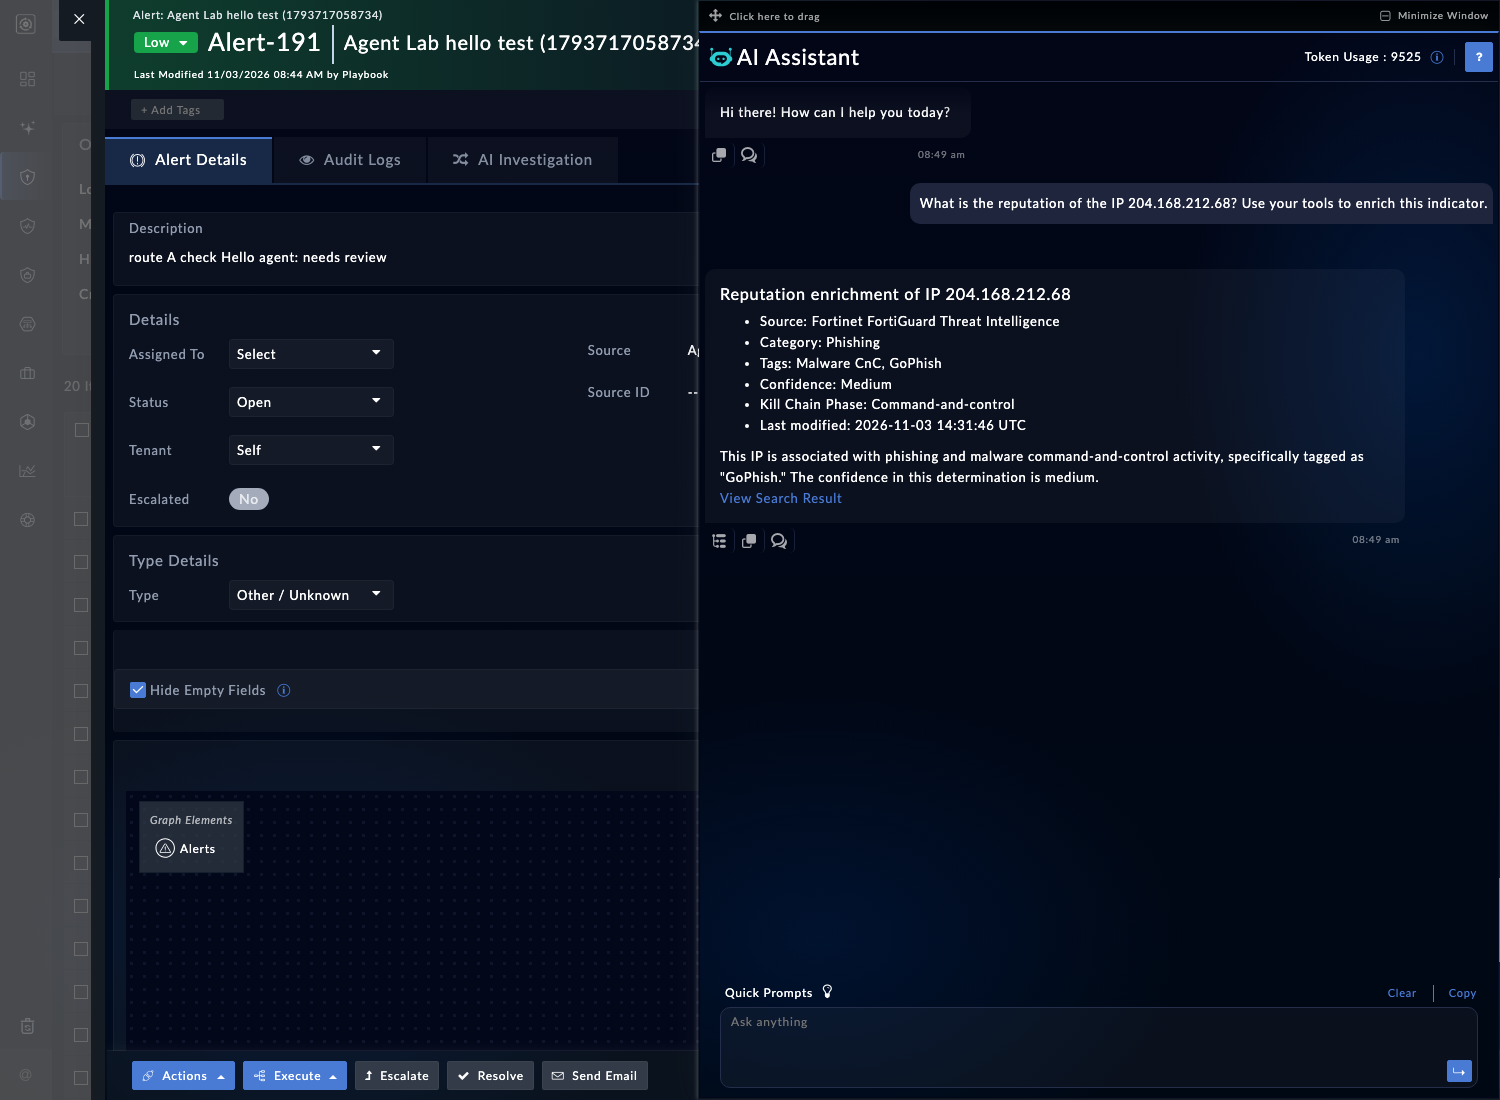
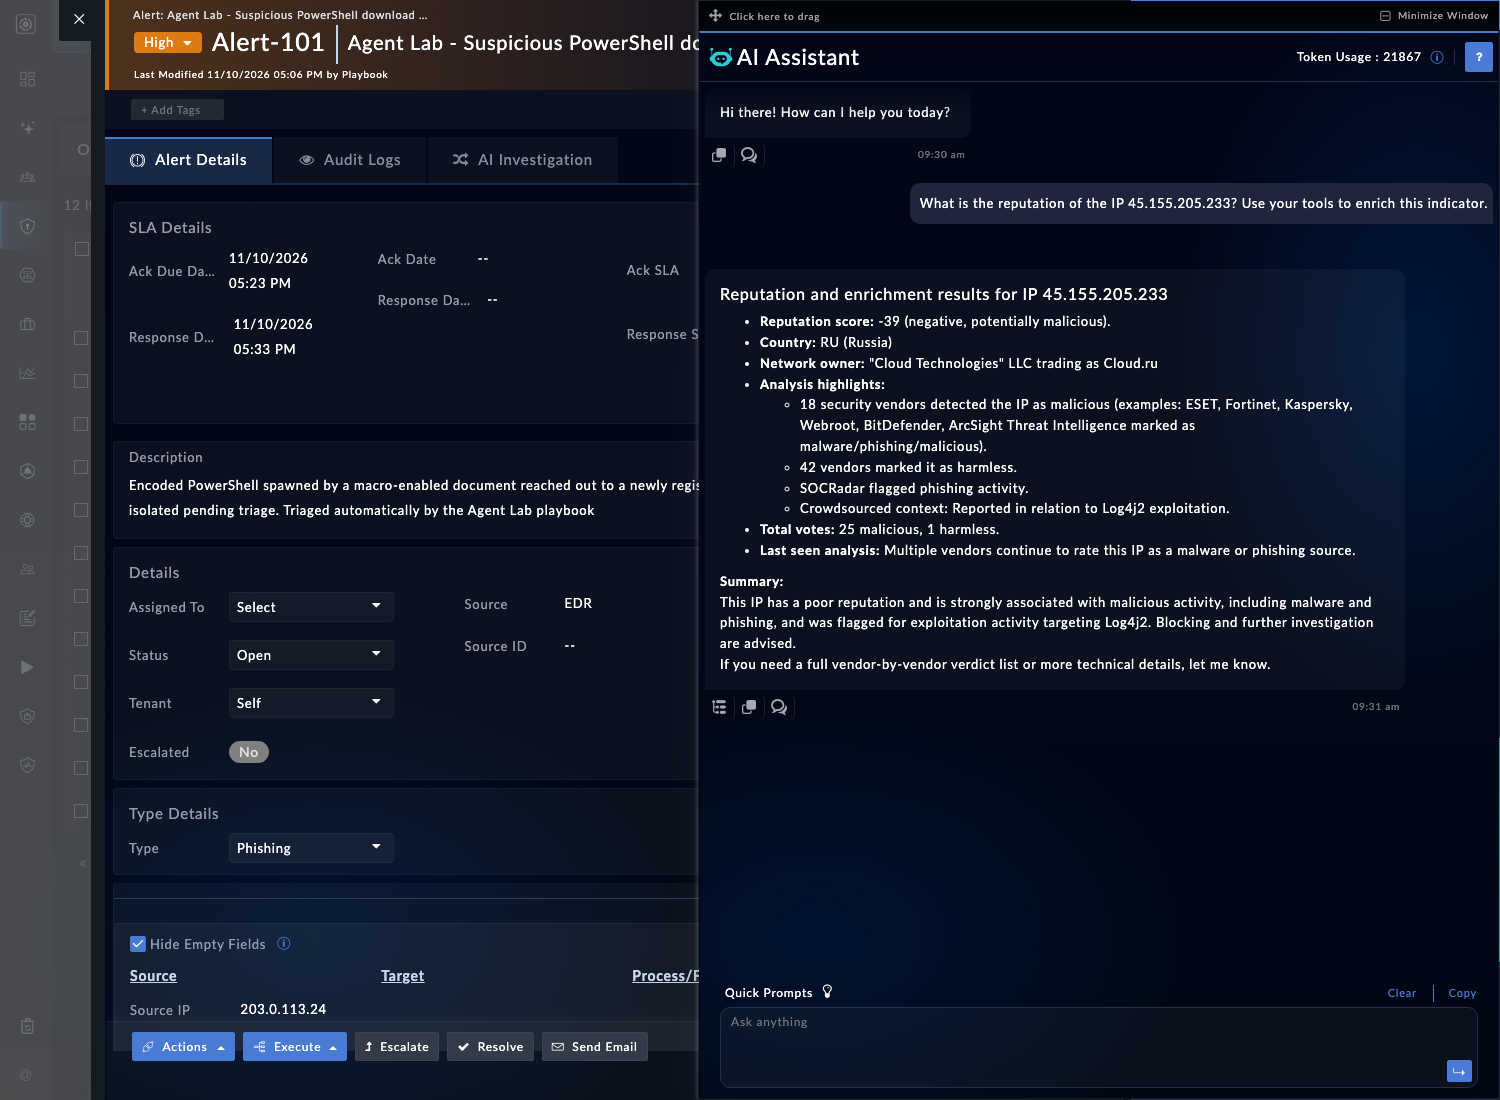
ch05: VirusTotal enrichment - page section, spec step, verified captures
The IP-enrichment source for the chat tool check is VirusTotal (free API
key the student creates), not FortiGuard:

- Page 02: a setup section before the chat check (create the free key,
  configure the connector in the Content Hub) with the fsa05-04b step and
  capture markers; wording switched from FortiGuard to VirusTotal.
- Spec: fsa05-04b-virustotal-config drives addConfiguration through the
  UI with the key from FSR_VT_API_KEY and health-checks it, then stays a
  read-only look once a configuration exists. The answer-shot allows the
  public reputation IP through the OCR gate (ocrAllow, not scrubSkip -
  the question bubble is the page's own example with <ip> filled in) and
  the answer regex names virustotal.

Verified live: connector config 'Lab' health-checks Available, the chat
turn calls enrich_indicator via SOC Framework and answers from
VirusTotal (malicious, score -39), and the tool-span check reads the
SOC Framework trace. The answer capture is the genuine VirusTotal
verdict, replacing the old FortiGuard capture.

diff --git a/docubot/05-register-mcp-servers/chapter.spec.ts b/docubot/05-register-mcp-servers/chapter.spec.ts
@@ -27,8 +27,8 @@
 //                          the enrich_indicator tool fired (spends FortiAI credits).
 //                          Uses the built-in SOC Framework server the chat already
 //                          has, so it does NOT need the DeepWiki grant. Point
-//                          REPUTATION_IP at an IP your FortiGuard feed currently
-//                          rates (default 204.168.212.68 - live IPs age out).
+//                          REPUTATION_IP at an IP VirusTotal currently rates
+//                          (default 204.168.212.68 - live verdicts age out).
 //
 // Authored offline from the pre-docubot spec tools/e2e/captures/ch05.spec.js;
 // verify on a box with `docubot run --chapter 05-register-mcp-servers`.
@@ -43,6 +43,7 @@ import { SCRUB } from 'docubot';
 import { labSeed } from 'docubot/products/fortisoar';
 import { anyStepSelected, pollUntil, shouldRunStep } from 'docubot';
 import { openAlertRecord } from 'docubot/products/fortisoar';
+import { openConnector, openConnectorTab, configOptions, selectConfig, checkConnectorHealth, addConfiguration } from 'docubot/products/fortisoar';
 import { pageMd, ScratchRun } from 'docubot';
 
 test.describe.configure({ mode: 'serial' });
@@ -60,7 +61,7 @@ const AGENT = process.env.DOCUBOT_CH05_AGENT || 'Alert Investigation';
 // fsa05-05 proves a granted tool runs, in-domain, through the chat. The chat is
 // domain-guarded, so it will not ask an off-domain remote server (DeepWiki); it
 // WILL enrich an indicator with the built-in SOC Framework enrich_indicator tool.
-// REPUTATION_IP must be an IP FortiGuard currently rates (live IPs de-list).
+// REPUTATION_IP must be an IP VirusTotal currently rates (live IPs de-list).
 const REPUTATION_IP = process.env.REPUTATION_IP || '204.168.212.68';
 const QUESTION = `What is the reputation of the IP ${REPUTATION_IP}? Use your tools to enrich this indicator.`;
 
@@ -213,6 +214,35 @@ test('chapter 5 - register MCP servers', async ({ gui, capture }) => {
       expect(JSON.stringify(cfg?.config?.mcp_server || []), 'SOC Framework stays granted (it writes the investigation verdict)').toContain(String(soc));
     });
 
+    // The stock VirusTotal enrichment playbooks (IP Address > VirusTotal >
+    // Enrichment, tag IP_Enrichment) are what enrich_indicator routes IP
+    // questions to; they need a VirusTotal API key. The page has the student
+    // create the free key and configure the connector; this step drives that
+    // same configuration through the UI when the lab env carries the key
+    // (FSR_VT_API_KEY), and stays a read-only look once a configuration exists.
+    if (shouldRunStep('fsa05-04b-virustotal-config')) await test.step('fsa05-04b-virustotal-config', async () => {
+      await openConnector(soar, 'VirusTotal');
+      await openConnectorTab(soar, 'Configurations');
+      const existing = (await configOptions(soar)).filter((o) => o && !/select/i.test(o));
+      if (!existing.length) {
+        const key = process.env.FSR_VT_API_KEY || '';
+        if (!key) {
+          skipStep('fsa05-04b-virustotal-config', 'the VirusTotal connector has no configuration (create the free key per the book, or set FSR_VT_API_KEY to configure it here)');
+          return;
+        }
+        await addConfiguration(soar, {
+          name: 'Lab',
+          fields: { 'Server URL': 'https://www.virustotal.com', 'API Key': key, 'Verify SSL': false },
+          makeDefault: true,
+        });
+      } else {
+        await selectConfig(soar, existing[0]);
+      }
+      const health = await checkConnectorHealth(soar, existing.length ? existing[0] : 'Lab');
+      expect(health.status, 'the VirusTotal configuration health-checks').toBe('Available');
+      await capture.shot(soar, 'fsa05-04b-virustotal-config', SKIP);
+    });
+
     if (shouldRunStep('fsa05-05-chat-runs-tool')) await test.step('fsa05-05-chat-runs-tool', async () => {
       // Spends FortiAI credits. Uses the built-in SOC Framework server the chat
       // already carries, so it does NOT need the DeepWiki grant from fsa05-04.
@@ -226,13 +256,18 @@ test('chapter 5 - register MCP servers', async ({ gui, capture }) => {
       const { answer } = await askFortiSOARAssistant(soar, QUESTION);
       // The answer must name the intelligence source and a verdict, not just echo
       // the question. If this fails with "no reputation", the IP has de-listed -
-      // refresh REPUTATION_IP from the FortiGuard feed (see the chapter note).
+      // refresh REPUTATION_IP to one VirusTotal currently rates malicious.
       // Assert on the ANSWER bubble; the question itself says "reputation".
-      expect(answer).toMatch(/fortiguard|malicious|phishing|command-and-control|malware|categor/i);
-      // The answer names the PUBLIC threat IP being enriched; the scan can't tell a
-      // public IP from a lab one, so skip ip-address here. The lab box address is
-      // still guarded by the sensitive-term category (the base-URL host).
-      await capture.shot(soar, 'fsa05-05-chat-runs-tool-answer', { scrubSkip: ['ip-address', 'date-or-time'] });
+      expect(answer).toMatch(/virustotal|fortiguard|malicious|phishing|command-and-control|malware|categor/i);
+      // The PUBLIC threat IP is deliberately on screen: the question bubble is the
+      // page's own example question with <ip> filled in. The scan can't tell a
+      // public IP from a lab one, so allow exactly this IP (scrubSkip's categories
+      // govern the secret scan, not the OCR gate). The lab box address is still
+      // guarded by the sensitive-term category (the base-URL host).
+      await capture.shot(soar, 'fsa05-05-chat-runs-tool-answer', {
+        scrubSkip: ['ip-address', 'date-or-time'],
+        ocrAllow: [new RegExp(REPUTATION_IP.replace(/\./g, '\\.'))],
+      });
 
       // Prove the tool actually fired: the latest Chat Assistant trace must carry a
       // TOOL span for enrich_indicator. Read through the app's own session.

diff --git a/content/05-register-mcp-servers/02-register-a-remote-server.md b/content/05-register-mcp-servers/02-register-a-remote-server.md
@@ -66,14 +66,26 @@ Do not leave **SOC Framework** out. Alert Investigation uses it to write its ver
 
 The AI Assistant answers security questions only, and it declines other questions. It already has FortiSOAR's built-in SOC Framework server, whose `enrich_indicator` tool looks up an indicator in threat intelligence. So this check uses that tool, not DeepWiki. This question uses FortiAI credits.
 
+### Before you start: configure the VirusTotal connector
+
+The enrichment playbooks the box ships answer IP questions with VirusTotal, and the VirusTotal connector needs an API key. The key is free.
+
+1. Create a free account at [virustotal.com](https://www.virustotal.com) and copy the API key from your profile.
+2. Open **Content Hub**, search **VirusTotal**, open the connector, and select **CONFIGURE**.
+3. Paste your API key, leave the server URL as offered, and save. The health check turns **Available**.
+
+<!-- step: fsa05-04b-virustotal-config -->
+<!-- capture: fsa05-04b-virustotal-config -->
+![fsa05-04b-virustotal-config](fsa05-04b-virustotal-config.png?height=600px)
+
 {{% notice note %}}
-Live indicators age out. If the answer says "no reputation available", pick an IP that your FortiGuard feed rates now. Use the Fortinet FortiGuard Threat Intelligence connector, action Fetch Threat Intel Feeds.
+Live verdicts age out. If the answer says "no reputation available", pick an IP that VirusTotal currently rates as malicious, for example a known command-and-control address.
 {{% /notice %}}
 
 1. Open any alert's detail page.
 2. Open the **AI Assistant**.
-3. Ask: `What is the reputation of the IP <ip>? Use your tools to enrich this indicator.` Replace `<ip>` with a rated IP, for example one tagged Malware CnC.
-4. Read the answer. It names FortiGuard and gives a verdict.
+3. Ask: `What is the reputation of the IP <ip>? Use your tools to enrich this indicator.` Replace `<ip>` with a rated IP, for example a known command-and-control address.
+4. Read the answer. It names VirusTotal and gives a verdict.
 5. Open the trace for the answer. Find the `enrich_indicator` tool call.
 
 <!-- capture: fsa05-05-chat-runs-tool-answer -->
@@ -81,7 +93,7 @@ Live indicators age out. If the answer says "no reputation available", pick an I
 
 **You are done when**
 
-- The answer names FortiGuard and gives the indicator's verdict.
+- The answer names VirusTotal and gives the indicator's verdict.
 - The trace shows a `TOOL` call to `enrich_indicator` on the SOC Framework server, and the answer uses its result.
 
 ## Troubleshooting
